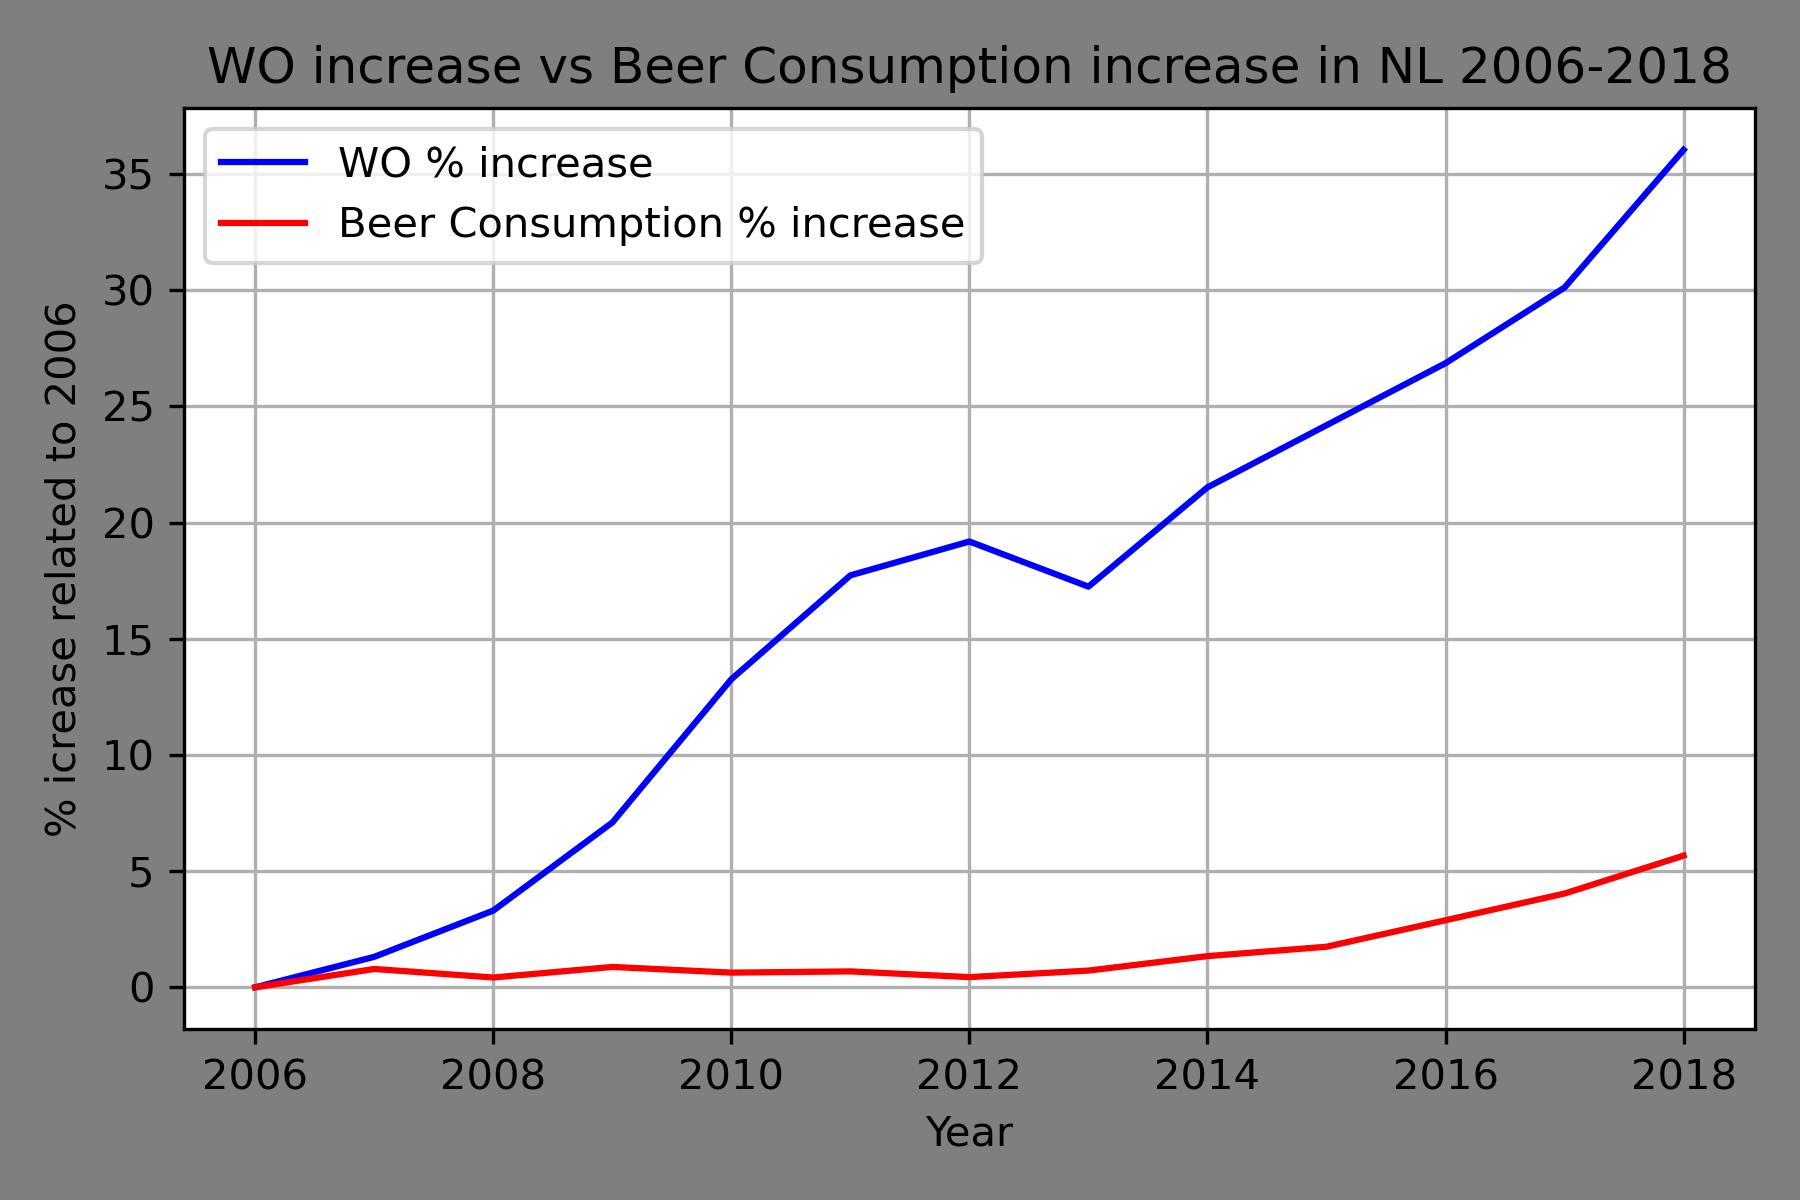
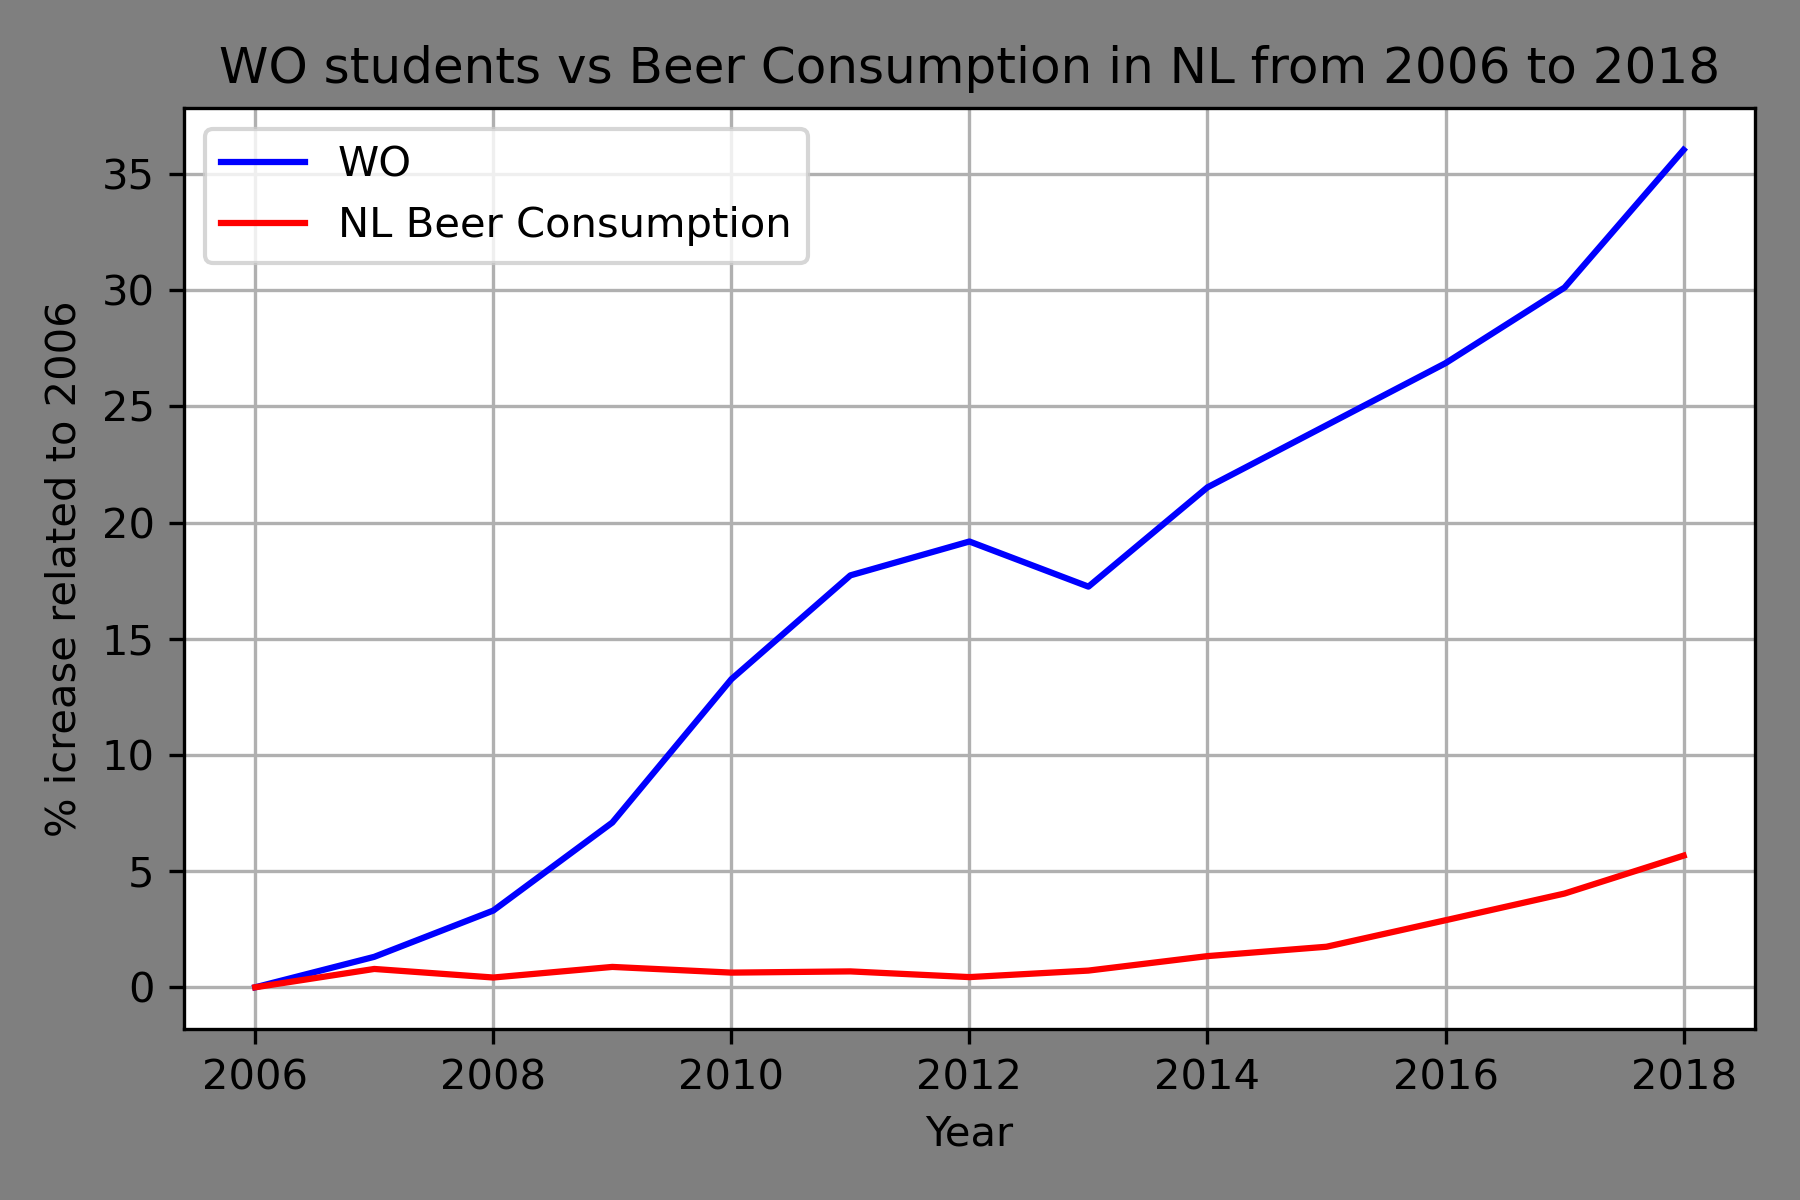
typos

Changed region(s): [[0.1244, 0.0308, 0.9644, 0.2467]]

diff --git a/solution_.md b/solution_.md
@@ -6,4 +6,4 @@
 # WO vs Beer Consumption in NL
 ![WO vs Beer Consumption in NL](plot.png)
 
-The graph above depicts the percent increase of the university student population (blue line) and the beer consumption percent increase in the Netherlands from 2006 to 2018. The data were converted to % increases so that they can be related to eachother in a more meaningful way. The WO line has an almost steady positive trend throughout the years, with a small decrease in 2013. As for the beer consumption data, there is no visible increase until 2012, when the line starts rising, with a much lower slope than the WO line. After studying the graph, one can find no strong relation between the two categories. The increase in students, does increase the beer consumption, but only in the expected degree of the increase in people who can drink. Beer consumpution does not seem to be that much dependent on students, since it is steady for the first half of the diagram, even though students did increase. However, on the second half, it does increase with increasing students, but this increase could also be due to the increase in some other population category in NL.
+The graph above depicts the percentage increase of the university student population and the beer consumption percentage increase in the Netherlands from 2006 to 2018. The data were converted to % increases so that they can be related to eachother in a more meaningful way. The WO line has an almost steady positive trend throughout the years, with a small decrease in 2013. As for the NL beer consumption data, there is no notable increase or decrease until 2012, when the line starts rising, but with a much lower slope than the WO line. After studying the graph, one can find no strong correlation between the two categories. The increase in students, does increase the beer consumption, but only in the expected degree, since there are more people who can drink. NL Beer consumpution does not seem to be that much dependent on students, since it is steady for the first half of the diagram, even though students do increase. However, on the second half, it does rise with increasing students, but this increase could also be due to the increase in some other population category in the Netherlands.
